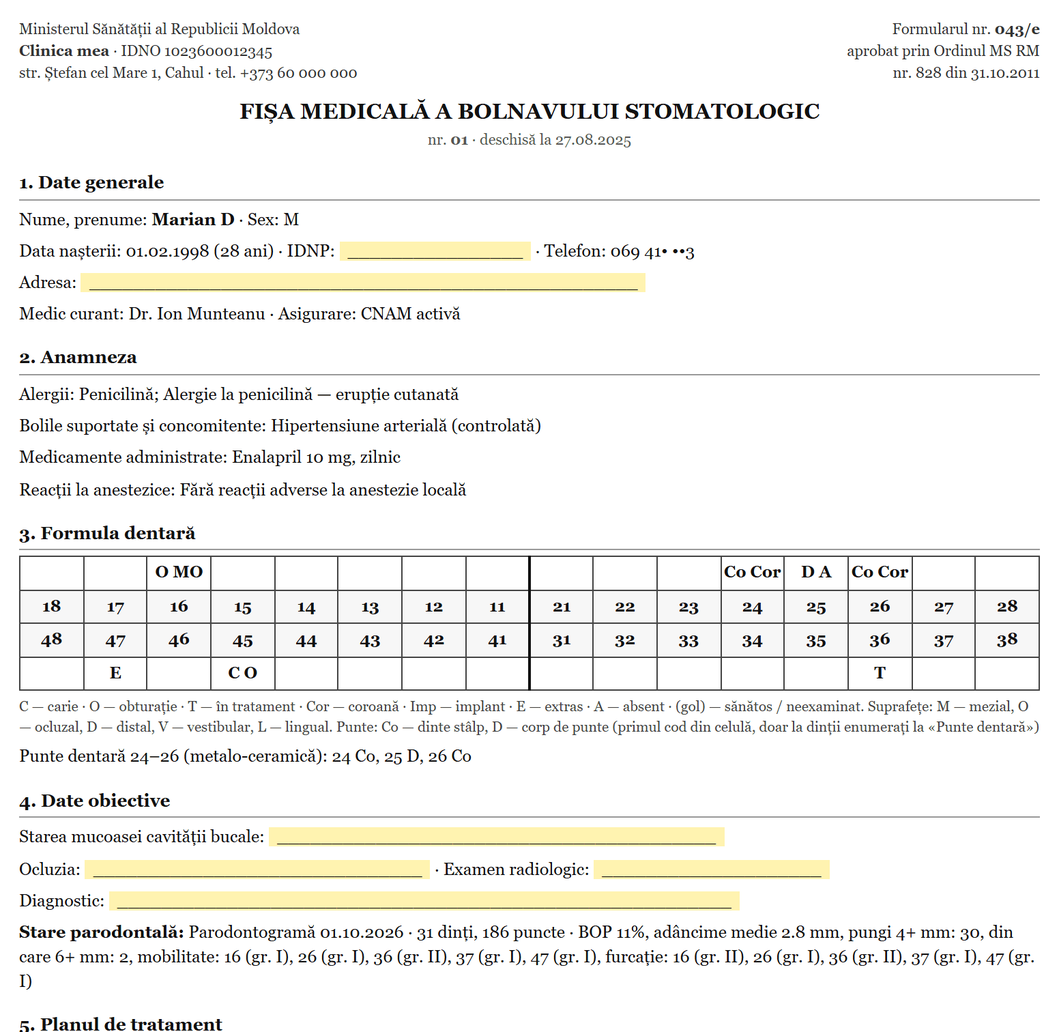
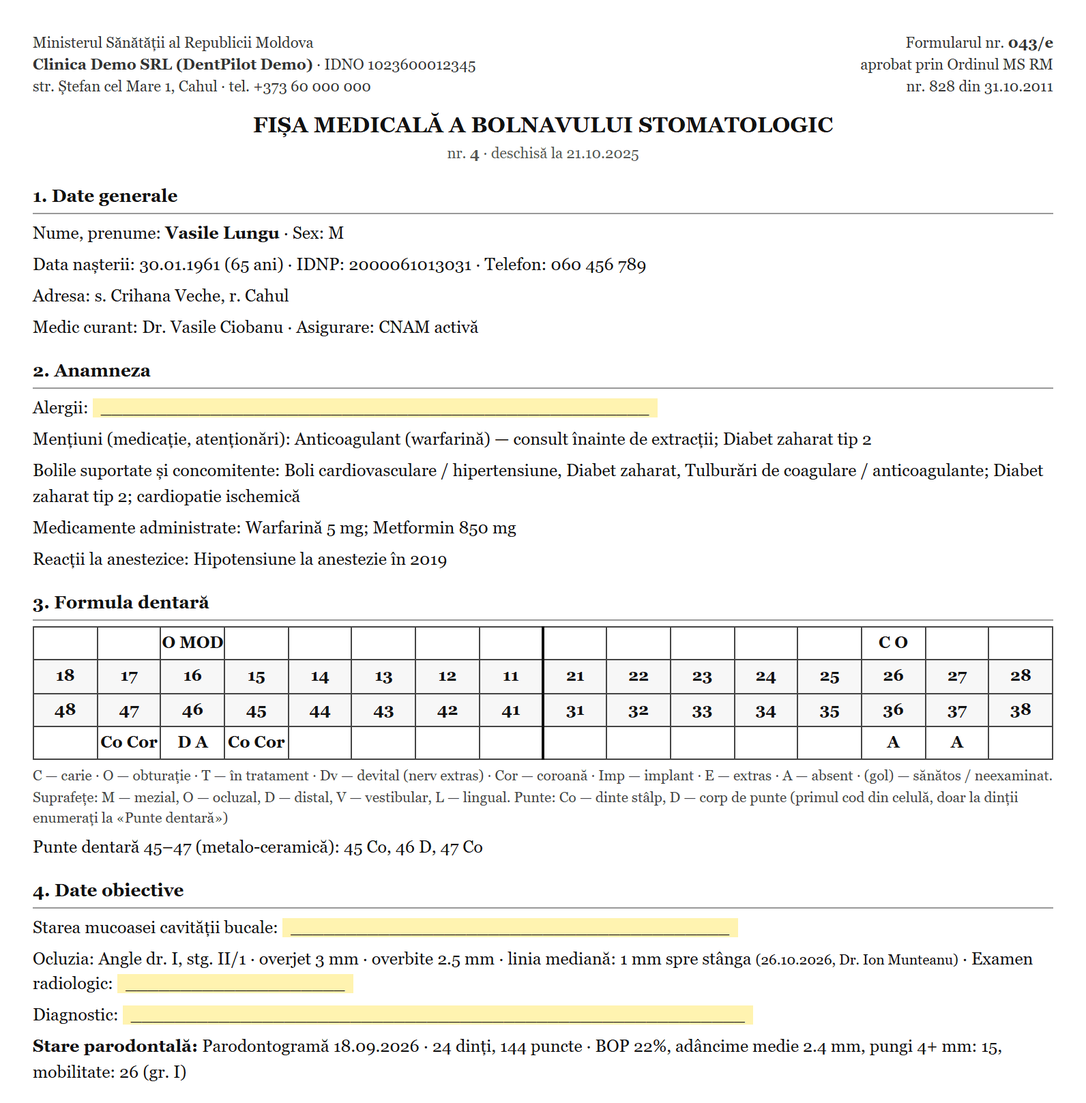
Site for 2.1.0/2.2.0: three new frames (hero odontogram in layout B with Salveaza tot, 3D crop with roots and nerv extras for section 02, form 043/e with Ocluzia), four new section 02 tiles (modes, one save, Compara, own models), ocluzia in the 043/e text and in the guide, RO+RU (Oleg 26.10: publish

Changed region(s): [[0.0, 0.1554, 0.9897, 1.0], [0.0, 0.0, 0.7732, 0.1554], [0.8041, 0.0, 0.9897, 0.0933]]

diff --git a/ru.html b/ru.html
@@ -368,7 +368,7 @@ footer{padding:48px 0 32px;background:var(--bg)}
     </div>
     <div class="show">
       <div class="show-top">
-        <div class="tabs" role="tablist" aria-label="Экраны DentPilot"><button type="button" role="tab" id="tab-calendar" aria-selected="true" aria-controls="shot-panel" tabindex="0" data-src="shots/app-calendar.webp" data-alt="Календарь дня со всеми врачами в DentPilot" data-sx="-8%">Календарь дня</button><button type="button" role="tab" id="tab-odontograma" aria-selected="false" aria-controls="shot-panel" tabindex="-1" data-src="shots/app-odontograma.webp" data-alt="3D-одонтограмма в DentPilot: имплант на 21, коронки, видны корни" data-sx="-23%">3D-одонтограмма</button><button type="button" role="tab" id="tab-fisa" aria-selected="false" aria-controls="shot-panel" tabindex="-1" data-src="shots/app-fisa.webp" data-alt="Карточка пациента в DentPilot: данные, медицинские предупреждения, история" data-sx="-8%">Карточка пациента</button><button type="button" role="tab" id="tab-statistici" aria-selected="false" aria-controls="shot-panel" tabindex="-1" data-src="shots/app-statistici.webp" data-alt="Статистика клиники в DentPilot: выручка, записи, явка, загрузка" data-sx="-8%">Статистика</button></div>
+        <div class="tabs" role="tablist" aria-label="Экраны DentPilot"><button type="button" role="tab" id="tab-calendar" aria-selected="true" aria-controls="shot-panel" tabindex="0" data-src="shots/app-calendar.webp" data-alt="Календарь дня со всеми врачами в DentPilot" data-sx="-8%">Календарь дня</button><button type="button" role="tab" id="tab-odontograma" aria-selected="false" aria-controls="shot-panel" tabindex="-1" data-src="shots/app-odontograma.webp" data-alt="3D-одонтограмма в DentPilot: режимы работы, зуб 21 с имплантом, панель зуба и сохранение всех правок разом" data-sx="-23%">3D-одонтограмма</button><button type="button" role="tab" id="tab-fisa" aria-selected="false" aria-controls="shot-panel" tabindex="-1" data-src="shots/app-fisa.webp" data-alt="Карточка пациента в DentPilot: данные, медицинские предупреждения, история" data-sx="-8%">Карточка пациента</button><button type="button" role="tab" id="tab-statistici" aria-selected="false" aria-controls="shot-panel" tabindex="-1" data-src="shots/app-statistici.webp" data-alt="Статистика клиники в DentPilot: выручка, записи, явка, загрузка" data-sx="-8%">Статистика</button></div>
       </div>
       <figure class="frame crop" role="tabpanel" id="shot-panel" aria-labelledby="tab-calendar">
         <img id="shot" src="shots/app-calendar.webp" alt="Календарь дня со всеми врачами в DentPilot" width="2880" height="1545" style="--sx:-8%" fetchpriority="high">
@@ -385,9 +385,9 @@ footer{padding:48px 0 32px;background:var(--bg)}
       <div class="items"><div class="item"><span class="n">01</span><div><h3>Календарь всей клиники</h3><p>Все врачи, свободные окна и статусы записей — на одном экране. Администратор видит день целиком и находит время для следующего приёма.</p></div><span class="ic"><svg width="22" height="22" viewBox="0 0 24 24" fill="none" stroke="currentColor" stroke-width="2" stroke-linecap="round" stroke-linejoin="round" aria-hidden="true"><path d="M4 6h16v14H4zM4 10h16M8 3v4M16 3v4"/></svg></span></div><div class="item"><span class="n">02</span><div><h3>Карточка, которая помнит всё</h3><p>Зубная формула FDI, план лечения с ценами, статусами, платежами и балансом. Информированное согласие (ст. 13, Закон 263/2005) печатается прямо из плана.</p></div><span class="ic"><svg width="22" height="22" viewBox="0 0 24 24" fill="none" stroke="currentColor" stroke-width="2" stroke-linecap="round" stroke-linejoin="round" aria-hidden="true"><path d="M3 6h6l2 2h10v11H3zM14 14l2 2 3-3"/></svg></span></div><div class="item"><span class="n">03</span><div><h3>Медицинские предупреждения на виду</h3><p>Аллергии, болезни и лекарства из анамнеза — вверху карточки: врач видит их до начала лечения.</p></div><span class="ic"><svg width="22" height="22" viewBox="0 0 24 24" fill="none" stroke="currentColor" stroke-width="2" stroke-linecap="round" stroke-linejoin="round" aria-hidden="true"><path d="M9 4h6v3H9zM7 5.5H5v15h14v-15h-2M9 12h6M9 16h4"/></svg></span></div></div>
       <div class="doccard">
         <div class="lbl"><span>Документы без рутины</span><svg width="20" height="20" viewBox="0 0 24 24" fill="none" stroke="currentColor" stroke-width="2" stroke-linecap="round" stroke-linejoin="round" aria-hidden="true"><path d="M7 9V4h10v5M7 17H5v-6h14v6h-2M7 14h10v6H7z"/></svg></div>
-        <figure class="frame"><div class="meta" aria-hidden="true"><span>Форма 043/e</span><span>Приказ МЗ 828/2011</span></div><img src="shots/03_fisa043.png" alt="Медицинская форма 043/e, заполненная DentPilot автоматически, готова к печати" width="1552" height="1512" loading="lazy"></figure>
+        <figure class="frame"><div class="meta" aria-hidden="true"><span>Форма 043/e</span><span>Приказ МЗ 828/2011</span></div><img src="shots/03_fisa043.png" alt="Медицинская форма 043/e, заполненная DentPilot автоматически, готова к печати" width="1592" height="1617" loading="lazy"></figure>
         <h3>Готово к печати.<br>Без повторного ввода.</h3>
-        <p>Форма 043/e заполняется из уже введённых данных: диагноз, зубная формула, журнал визитов, информированное согласие и уведомление пациента об обработке данных.</p>
+        <p>Форма 043/e заполняется из уже введённых данных: диагноз, зубная формула, окклюзия, журнал визитов, информированное согласие и уведомление пациента об обработке данных.</p>
       </div>
     </div>
   </div>
@@ -395,9 +395,9 @@ footer{padding:48px 0 32px;background:var(--bg)}
 
 <section class="sec dark">
   <div class="wrap">
-    <div class="head2"><div><div class="eb">02 / Наглядная клиническая картина</div><h2 class="h2">Не просто формула.<br>Полная картина в 3D.</h2></div><p class="lead">Выберите зуб, поверните модель и посмотрите детали. Одонтограмма синхронизирована с формулой FDI, планом лечения и формой 043/e.</p></div>
-    <figure class="frame crop"><img src="shots/app-odontograma.webp" alt="3D-одонтограмма в DentPilot, выбран зуб 21: имплант, коронки на 11 и 12" width="2880" height="1545" style="--sx:-23%" loading="lazy"></figure>
-    <div class="feat4"><div><svg width="26" height="26" viewBox="0 0 24 24" fill="none" stroke="currentColor" stroke-width="2" stroke-linecap="round" stroke-linejoin="round" aria-hidden="true"><path d="M4 8V4h4M16 4h4v4M20 16v4h-4M8 20H4v-4"/></svg><h3>Три ракурса</h3><p>Фронтальный, боковой и окклюзионный виды.</p></div><div><svg width="26" height="26" viewBox="0 0 24 24" fill="none" stroke="currentColor" stroke-width="2" stroke-linecap="round" stroke-linejoin="round" aria-hidden="true"><path d="M20 12a8 8 0 11-2.3-5.7M20 4v5h-5"/></svg><h3>Больше деталей</h3><p>Вращение модели и корни по запросу.</p></div><div><svg width="26" height="26" viewBox="0 0 24 24" fill="none" stroke="currentColor" stroke-width="2" stroke-linecap="round" stroke-linejoin="round" aria-hidden="true"><path d="M12 3l9 5-9 5-9-5zM3 13l9 5 9-5"/></svg><h3>Связь с лечением</h3><p>Импланты и коронки в единой картине.</p></div><div><svg width="26" height="26" viewBox="0 0 24 24" fill="none" stroke="currentColor" stroke-width="2" stroke-linecap="round" stroke-linejoin="round" aria-hidden="true"><path d="M8 4c-2.5 0-4 2-4 4.5 0 3 1.5 4.5 2 8 .3 2 1 3.5 2 3.5s1.5-2 2-4c.5-2 1-2.5 2-2.5s1.5.5 2 2.5c.5 2 1 4 2 4s1.7-1.5 2-3.5c.5-3.5 2-5 2-8C20 6 18.5 4 16 4c-1.6 0-2.6 1-4 1S9.6 4 8 4z"/></svg><h3>6 точек на зуб</h3><p>Пародонтограмма с автоматическим расчётом BOP% и карманов.</p></div></div>
+    <div class="head2"><div><div class="eb">02 / Наглядная клиническая картина</div><h2 class="h2">Не просто формула.<br>Полная картина в 3D.</h2></div><p class="lead">Выберите режим работы, отметьте зубы и сохраните всё разом. Одонтограмма синхронизирована с формулой FDI, планом лечения и формой 043/e; рядом — пародонтограмма, 6 точек на зуб.</p></div>
+    <figure class="frame crop"><img src="shots/app-odontograma-s.webp" alt="3D-одонтограмма в DentPilot, вид сбоку с корнями: имплант на 21, коронки, два депульпированных зуба" width="2804" height="1436" style="--sx:-23%" loading="lazy"></figure>
+    <div class="feat4"><div><svg width="26" height="26" viewBox="0 0 24 24" fill="none" stroke="currentColor" stroke-width="2" stroke-linecap="round" stroke-linejoin="round" aria-hidden="true"><path d="M12 3l9 5-9 5-9-5zM3 13l9 5 9-5"/></svg><h3>Восемь режимов работы</h3><p>Осмотр, кариес, реставрация, эндодонтия, пародонт, хирургия, имплант, протез — каждый показывает свои зубы.</p></div><div><svg width="26" height="26" viewBox="0 0 24 24" fill="none" stroke="currentColor" stroke-width="2" stroke-linecap="round" stroke-linejoin="round" aria-hidden="true"><path d="M5 12.5l4.5 4.5L19 7.5"/></svg><h3>Одно сохранение</h3><p>Отметьте несколько зубов, сразу увидьте изменения в 3D и сохраните всё разом.</p></div><div><svg width="26" height="26" viewBox="0 0 24 24" fill="none" stroke="currentColor" stroke-width="2" stroke-linecap="round" stroke-linejoin="round" aria-hidden="true"><path d="M12 21a8 8 0 100-16 8 8 0 000 16zM12 9v4l2 2M10 2h4"/></svg><h3>Сравнить с визитом</h3><p>Что изменилось с прошлого визита — было и стало, в 2D и 3D.</p></div><div><svg width="26" height="26" viewBox="0 0 24 24" fill="none" stroke="currentColor" stroke-width="2" stroke-linecap="round" stroke-linejoin="round" aria-hidden="true"><path d="M20 12a8 8 0 11-2.3-5.7M20 4v5h-5"/></svg><h3>Зубы по моделям</h3><p>Эмаль, корни и десна по собственным моделям; пять ракурсов, корни по запросу.</p></div></div>
   </div>
 </section>
 

diff --git a/index.html b/index.html
@@ -368,7 +368,7 @@ footer{padding:48px 0 32px;background:var(--bg)}
     </div>
     <div class="show">
       <div class="show-top">
-        <div class="tabs" role="tablist" aria-label="Ecrane DentPilot"><button type="button" role="tab" id="tab-calendar" aria-selected="true" aria-controls="shot-panel" tabindex="0" data-src="shots/app-calendar.webp" data-alt="Calendarul zilei cu toți medicii în DentPilot" data-sx="-8%">Calendarul zilei</button><button type="button" role="tab" id="tab-odontograma" aria-selected="false" aria-controls="shot-panel" tabindex="-1" data-src="shots/app-odontograma.webp" data-alt="Odontograma 3D în DentPilot: implant pe 21, coroane, rădăcini vizibile" data-sx="-23%">Odontogramă 3D</button><button type="button" role="tab" id="tab-fisa" aria-selected="false" aria-controls="shot-panel" tabindex="-1" data-src="shots/app-fisa.webp" data-alt="Fișa pacientului în DentPilot: date, atenționări medicale, istoric" data-sx="-8%">Fișa pacientului</button><button type="button" role="tab" id="tab-statistici" aria-selected="false" aria-controls="shot-panel" tabindex="-1" data-src="shots/app-statistici.webp" data-alt="Statisticile clinicii în DentPilot: încasări, programări, prezență, ocupare" data-sx="-8%">Statistici</button></div>
+        <div class="tabs" role="tablist" aria-label="Ecrane DentPilot"><button type="button" role="tab" id="tab-calendar" aria-selected="true" aria-controls="shot-panel" tabindex="0" data-src="shots/app-calendar.webp" data-alt="Calendarul zilei cu toți medicii în DentPilot" data-sx="-8%">Calendarul zilei</button><button type="button" role="tab" id="tab-odontograma" aria-selected="false" aria-controls="shot-panel" tabindex="-1" data-src="shots/app-odontograma.webp" data-alt="Odontograma 3D în DentPilot: moduri de lucru, dintele 21 cu implant, panoul dintelui și salvarea tuturor modificărilor odată" data-sx="-23%">Odontogramă 3D</button><button type="button" role="tab" id="tab-fisa" aria-selected="false" aria-controls="shot-panel" tabindex="-1" data-src="shots/app-fisa.webp" data-alt="Fișa pacientului în DentPilot: date, atenționări medicale, istoric" data-sx="-8%">Fișa pacientului</button><button type="button" role="tab" id="tab-statistici" aria-selected="false" aria-controls="shot-panel" tabindex="-1" data-src="shots/app-statistici.webp" data-alt="Statisticile clinicii în DentPilot: încasări, programări, prezență, ocupare" data-sx="-8%">Statistici</button></div>
       </div>
       <figure class="frame crop" role="tabpanel" id="shot-panel" aria-labelledby="tab-calendar">
         <img id="shot" src="shots/app-calendar.webp" alt="Calendarul zilei cu toți medicii în DentPilot" width="2880" height="1545" style="--sx:-8%" fetchpriority="high">
@@ -385,9 +385,9 @@ footer{padding:48px 0 32px;background:var(--bg)}
       <div class="items"><div class="item"><span class="n">01</span><div><h3>Calendarul întregii clinici</h3><p>Toți medicii, intervalele libere și statusurile programărilor — pe un singur ecran. Recepția vede ziua întreagă și găsește ora pentru următoarea vizită.</p></div><span class="ic"><svg width="22" height="22" viewBox="0 0 24 24" fill="none" stroke="currentColor" stroke-width="2" stroke-linecap="round" stroke-linejoin="round" aria-hidden="true"><path d="M4 6h16v14H4zM4 10h16M8 3v4M16 3v4"/></svg></span></div><div class="item"><span class="n">02</span><div><h3>Fișa care ține minte tot</h3><p>Formula dentară FDI, plan de tratament cu prețuri, statusuri, plăți și sold. Acordul informat (art. 13, Legea 263/2005) se tipărește direct din plan.</p></div><span class="ic"><svg width="22" height="22" viewBox="0 0 24 24" fill="none" stroke="currentColor" stroke-width="2" stroke-linecap="round" stroke-linejoin="round" aria-hidden="true"><path d="M3 6h6l2 2h10v11H3zM14 14l2 2 3-3"/></svg></span></div><div class="item"><span class="n">03</span><div><h3>Atenționări medicale la vedere</h3><p>Alergiile, bolile și medicația din anamneză stau sus, în fișă — medicul le vede înainte de tratament.</p></div><span class="ic"><svg width="22" height="22" viewBox="0 0 24 24" fill="none" stroke="currentColor" stroke-width="2" stroke-linecap="round" stroke-linejoin="round" aria-hidden="true"><path d="M9 4h6v3H9zM7 5.5H5v15h14v-15h-2M9 12h6M9 16h4"/></svg></span></div></div>
       <div class="doccard">
         <div class="lbl"><span>Documente fără rutină</span><svg width="20" height="20" viewBox="0 0 24 24" fill="none" stroke="currentColor" stroke-width="2" stroke-linecap="round" stroke-linejoin="round" aria-hidden="true"><path d="M7 9V4h10v5M7 17H5v-6h14v6h-2M7 14h10v6H7z"/></svg></div>
-        <figure class="frame"><div class="meta" aria-hidden="true"><span>Formular 043/e</span><span>Ordinul MS 828/2011</span></div><img src="shots/03_fisa043.png" alt="Fișa medicală 043/e completată automat de DentPilot, gata de tipărit" width="1552" height="1512" loading="lazy"></figure>
+        <figure class="frame"><div class="meta" aria-hidden="true"><span>Formular 043/e</span><span>Ordinul MS 828/2011</span></div><img src="shots/03_fisa043.png" alt="Fișa medicală 043/e completată automat de DentPilot, gata de tipărit" width="1592" height="1617" loading="lazy"></figure>
         <h3>Gata de tipărit.<br>Fără reintroducere.</h3>
-        <p>Fișa 043/e se completează din datele deja introduse: diagnostic, formula dentară, jurnalul vizitelor, acordul informat și informarea pacientului privind prelucrarea datelor.</p>
+        <p>Fișa 043/e se completează din datele deja introduse: diagnostic, formula dentară, ocluzia, jurnalul vizitelor, acordul informat și informarea pacientului privind prelucrarea datelor.</p>
       </div>
     </div>
   </div>
@@ -395,9 +395,9 @@ footer{padding:48px 0 32px;background:var(--bg)}
 
 <section class="sec dark">
   <div class="wrap">
-    <div class="head2"><div><div class="eb">02 / Tabloul clinic complet</div><h2 class="h2">Nu doar o formulă.<br>Imaginea completă în 3D.</h2></div><p class="lead">Alegeți dintele, rotiți modelul și vedeți detaliile. Odontograma e sincronizată cu formula FDI, planul de tratament și fișa 043/e.</p></div>
-    <figure class="frame crop"><img src="shots/app-odontograma.webp" alt="Odontograma 3D în DentPilot, dintele 21 selectat: implant, coroane pe 11 și 12" width="2880" height="1545" style="--sx:-23%" loading="lazy"></figure>
-    <div class="feat4"><div><svg width="26" height="26" viewBox="0 0 24 24" fill="none" stroke="currentColor" stroke-width="2" stroke-linecap="round" stroke-linejoin="round" aria-hidden="true"><path d="M4 8V4h4M16 4h4v4M20 16v4h-4M8 20H4v-4"/></svg><h3>Trei unghiuri</h3><p>Vedere frontală, laterală și ocluzală.</p></div><div><svg width="26" height="26" viewBox="0 0 24 24" fill="none" stroke="currentColor" stroke-width="2" stroke-linecap="round" stroke-linejoin="round" aria-hidden="true"><path d="M20 12a8 8 0 11-2.3-5.7M20 4v5h-5"/></svg><h3>Mai multe detalii</h3><p>Rotirea modelului și rădăcinile la cerere.</p></div><div><svg width="26" height="26" viewBox="0 0 24 24" fill="none" stroke="currentColor" stroke-width="2" stroke-linecap="round" stroke-linejoin="round" aria-hidden="true"><path d="M12 3l9 5-9 5-9-5zM3 13l9 5 9-5"/></svg><h3>Legat de tratament</h3><p>Implanturi și coroane în aceeași imagine.</p></div><div><svg width="26" height="26" viewBox="0 0 24 24" fill="none" stroke="currentColor" stroke-width="2" stroke-linecap="round" stroke-linejoin="round" aria-hidden="true"><path d="M8 4c-2.5 0-4 2-4 4.5 0 3 1.5 4.5 2 8 .3 2 1 3.5 2 3.5s1.5-2 2-4c.5-2 1-2.5 2-2.5s1.5.5 2 2.5c.5 2 1 4 2 4s1.7-1.5 2-3.5c.5-3.5 2-5 2-8C20 6 18.5 4 16 4c-1.6 0-2.6 1-4 1S9.6 4 8 4z"/></svg><h3>6 puncte pe dinte</h3><p>Parodontogramă cu BOP% și pungi calculate automat.</p></div></div>
+    <div class="head2"><div><div class="eb">02 / Tabloul clinic complet</div><h2 class="h2">Nu doar o formulă.<br>Imaginea completă în 3D.</h2></div><p class="lead">Alegeți modul de lucru, marcați dinții și salvați totul o dată. Odontograma e sincronizată cu formula FDI, planul de tratament și fișa 043/e; parodontograma, cu 6 puncte pe dinte, e alături.</p></div>
+    <figure class="frame crop"><img src="shots/app-odontograma-s.webp" alt="Odontograma 3D în DentPilot, vedere laterală cu rădăcini: implant pe 21, coroane, doi dinți devitali" width="2804" height="1436" style="--sx:-23%" loading="lazy"></figure>
+    <div class="feat4"><div><svg width="26" height="26" viewBox="0 0 24 24" fill="none" stroke="currentColor" stroke-width="2" stroke-linecap="round" stroke-linejoin="round" aria-hidden="true"><path d="M12 3l9 5-9 5-9-5zM3 13l9 5 9-5"/></svg><h3>Opt moduri de lucru</h3><p>Examinare, carii, restaurare, endodonție, parodonțiu, chirurgie, implant, proteză — fiecare arată dinții lui.</p></div><div><svg width="26" height="26" viewBox="0 0 24 24" fill="none" stroke="currentColor" stroke-width="2" stroke-linecap="round" stroke-linejoin="round" aria-hidden="true"><path d="M5 12.5l4.5 4.5L19 7.5"/></svg><h3>O singură salvare</h3><p>Marcați mai mulți dinți, vedeți schimbările imediat în 3D și salvați totul o dată.</p></div><div><svg width="26" height="26" viewBox="0 0 24 24" fill="none" stroke="currentColor" stroke-width="2" stroke-linecap="round" stroke-linejoin="round" aria-hidden="true"><path d="M12 21a8 8 0 100-16 8 8 0 000 16zM12 9v4l2 2M10 2h4"/></svg><h3>Compară cu vizita</h3><p>Ce s-a schimbat de la vizita trecută — era și acum, în 2D și 3D.</p></div><div><svg width="26" height="26" viewBox="0 0 24 24" fill="none" stroke="currentColor" stroke-width="2" stroke-linecap="round" stroke-linejoin="round" aria-hidden="true"><path d="M20 12a8 8 0 11-2.3-5.7M20 4v5h-5"/></svg><h3>Dinți modelați</h3><p>Smalț, rădăcini și gingie modelate; cinci unghiuri, rădăcinile la cerere.</p></div></div>
   </div>
 </section>
 

diff --git a/primii-pasi-ru.html b/primii-pasi-ru.html
@@ -502,7 +502,7 @@ footer{padding:48px 0 32px;background:var(--bg)}
 <h3>Пациент пришёл</h3>
 <p>Клик по записи (или правый клик) — и по очереди <span class="ui">A venit</span>, <span class="ui">În cabinet</span> и <span class="ui">Finalizat</span>; <span class="ui">În cabinet</span> можно пропустить. Если пациент не пришёл — <span class="ui">Nu a venit</span>.</p>
 <h3>Карточка пациента</h3>
-<ul><li><span class="ui">Date pacient</span> › <span class="ui">Anamneză</span> — 12 заболеваний или <span class="ui">Niciuna dintre afecțiunile de mai sus</span>, аллергии и лекарства; <span class="ui">Formular pentru pacient</span> печатает анкету на языке пациента;</li><li><span class="ui">Date pacient</span> › <span class="ui">Informare / acord — tipărire</span> — уведомление об обработке данных (Закон 195);</li><li><span class="ui">Plan și plăți</span> — процедуры с ценами, <span class="ui">Acord informat</span> на план (<span class="ui">Tipărește</span>) и <span class="ui">Înregistrează plata</span>; баланс считается сам по завершённым процедурам;</li><li><span class="ui">Vizite</span> › <span class="ui">Consultație</span> — жалобы, диагноз, лечение; дневник попадает в форму 043/e;</li><li><span class="ui">Odontogramă</span> и <span class="ui">Parodontogramă</span> — состояние зубов и дёсен; <span class="ui">Documente</span> — бланки для печати и подписанные сканы;</li><li><span class="ui">Fișa 043/e</span> в шапке карточки — печатается заполненной.</li></ul>
+<ul><li><span class="ui">Date pacient</span> › <span class="ui">Anamneză</span> — 12 заболеваний или <span class="ui">Niciuna dintre afecțiunile de mai sus</span>, аллергии и лекарства; <span class="ui">Formular pentru pacient</span> печатает анкету на языке пациента;</li><li><span class="ui">Date pacient</span> › <span class="ui">Informare / acord — tipărire</span> — уведомление об обработке данных (Закон 195);</li><li><span class="ui">Date pacient</span> › <span class="ui">Ocluzia</span> — окклюзия (класс Angle, overjet, overbite, средняя линия); печатается в форме 043/e;</li><li><span class="ui">Plan și plăți</span> — процедуры с ценами, <span class="ui">Acord informat</span> на план (<span class="ui">Tipărește</span>) и <span class="ui">Înregistrează plata</span>; баланс считается сам по завершённым процедурам;</li><li><span class="ui">Vizite</span> › <span class="ui">Consultație</span> — жалобы, диагноз, лечение; дневник попадает в форму 043/e;</li><li><span class="ui">Odontogramă</span> и <span class="ui">Parodontogramă</span> — состояние зубов и дёсен; <span class="ui">Documente</span> — бланки для печати и подписанные сканы;</li><li><span class="ui">Fișa 043/e</span> в шапке карточки — печатается заполненной.</li></ul>
 <figure class="frame gshot"><img src="shots/guide-pacient.webp" alt="Карточка пациента DentPilot™: план лечения и платежи" width="2200" height="1380" loading="lazy"></figure>
 </section>
 <section class="gs" id="licenta"><div class="gh"><span class="gn">11</span><h2>Лицензия и абонемент</h2></div>

diff --git a/primii-pasi.html b/primii-pasi.html
@@ -502,7 +502,7 @@ footer{padding:48px 0 32px;background:var(--bg)}
 <h3>Pacientul vine</h3>
 <p>Clic pe programare (sau clic dreapta) și apăsați pe rând <span class="ui">A venit</span>, <span class="ui">În cabinet</span> și <span class="ui">Finalizat</span>; <span class="ui">În cabinet</span> se poate sări. Dacă pacientul lipsește — <span class="ui">Nu a venit</span>.</p>
 <h3>Fișa pacientului</h3>
-<ul><li><span class="ui">Date pacient</span> › <span class="ui">Anamneză</span> — 12 afecțiuni sau <span class="ui">Niciuna dintre afecțiunile de mai sus</span>, alergii și medicație; <span class="ui">Formular pentru pacient</span> tipărește chestionarul în limba lui;</li><li><span class="ui">Date pacient</span> › <span class="ui">Informare / acord — tipărire</span> — informarea privind prelucrarea datelor (Legea 195);</li><li><span class="ui">Plan și plăți</span> — procedurile cu prețuri, <span class="ui">Acord informat</span> pentru plan (<span class="ui">Tipărește</span>) și <span class="ui">Înregistrează plata</span>; soldul se calculează singur din procedurile finalizate;</li><li><span class="ui">Vizite</span> › <span class="ui">Consultație</span> — acuze, diagnostic, tratament; jurnalul ajunge în fișa 043/e;</li><li><span class="ui">Odontogramă</span> și <span class="ui">Parodontogramă</span> — starea dinților și a gingiilor; <span class="ui">Documente</span> — formularele de tipărit și scanările semnate;</li><li><span class="ui">Fișa 043/e</span> din capul fișei — se tipărește completată.</li></ul>
+<ul><li><span class="ui">Date pacient</span> › <span class="ui">Anamneză</span> — 12 afecțiuni sau <span class="ui">Niciuna dintre afecțiunile de mai sus</span>, alergii și medicație; <span class="ui">Formular pentru pacient</span> tipărește chestionarul în limba lui;</li><li><span class="ui">Date pacient</span> › <span class="ui">Informare / acord — tipărire</span> — informarea privind prelucrarea datelor (Legea 195);</li><li><span class="ui">Date pacient</span> › <span class="ui">Ocluzia</span> — examenul ocluzal (clasa Angle, overjet, overbite, linia mediană); se tipărește în fișa 043/e;</li><li><span class="ui">Plan și plăți</span> — procedurile cu prețuri, <span class="ui">Acord informat</span> pentru plan (<span class="ui">Tipărește</span>) și <span class="ui">Înregistrează plata</span>; soldul se calculează singur din procedurile finalizate;</li><li><span class="ui">Vizite</span> › <span class="ui">Consultație</span> — acuze, diagnostic, tratament; jurnalul ajunge în fișa 043/e;</li><li><span class="ui">Odontogramă</span> și <span class="ui">Parodontogramă</span> — starea dinților și a gingiilor; <span class="ui">Documente</span> — formularele de tipărit și scanările semnate;</li><li><span class="ui">Fișa 043/e</span> din capul fișei — se tipărește completată.</li></ul>
 <figure class="frame gshot"><img src="shots/guide-pacient.webp" alt="Fișa pacientului DentPilot™: plan de tratament și plăți" width="2200" height="1380" loading="lazy"></figure>
 </section>
 <section class="gs" id="licenta"><div class="gh"><span class="gn">11</span><h2>Licența și abonamentul</h2></div>
